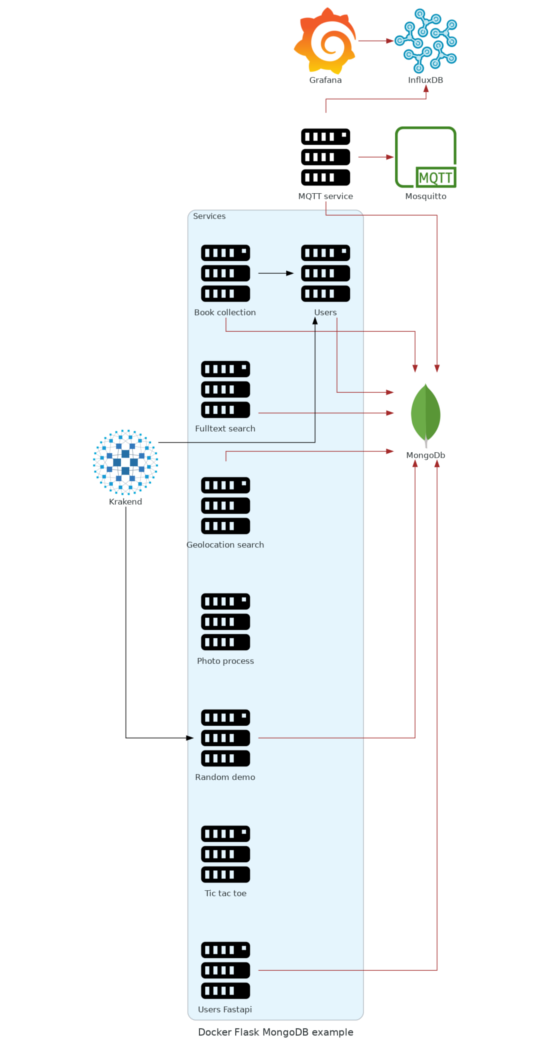
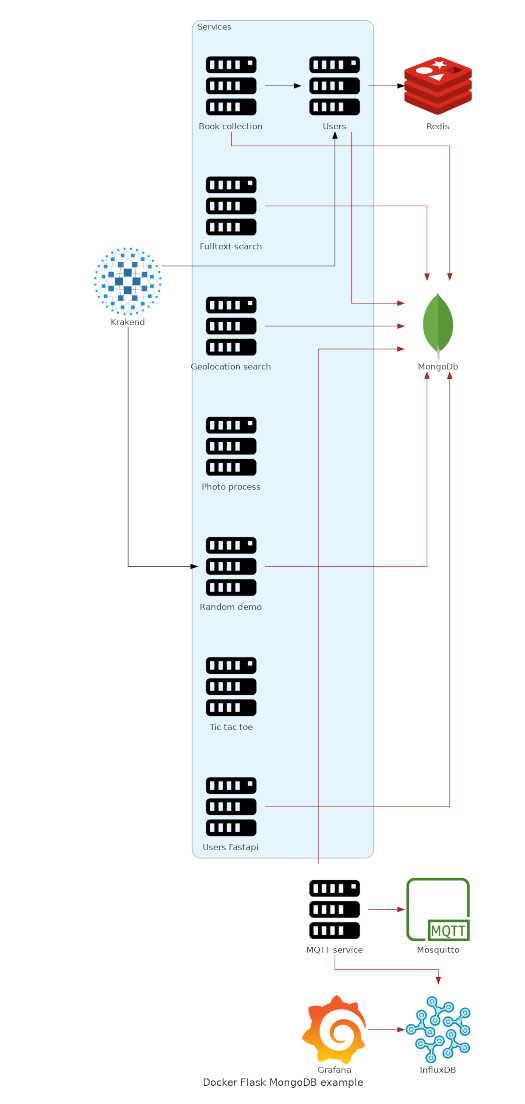
implemented demo caching system using redis cache and decorators

diff --git a/python/utils.py b/python/utils.py
@@ -1,7 +1,14 @@
 import logging, os
+import pickle
+
+import redis
 
 
 def get_logger():
+    """Configures the logging module, and returns it
+
+    Writes to a file log, also outputs it in the console
+    """
     logger = logging.getLogger("python_app")
     logger.setLevel(logging.DEBUG)
     # create file handler which logs even debug messages
@@ -23,5 +30,63 @@ def get_logger():
 
 
 def read_docker_secret(name: str) -> str:
+    """
+    Read a secret by name from as a docker configuration
+
+    :param name: name of the secret
+    :return: the secret as a string
+    """
     with open(os.environ.get(name), "r") as file:
         return file.read()
+
+
+def cache(redis: redis.Redis, key: str):
+    """
+    Caches the result of the function in redis and pickle, used a key to cache it
+
+    :param redis: a redis configured instance
+    :param key: the key to use as a parameter for the cache
+    :return: the result of the wrapped function
+    """
+
+    def decorator(fn):  # define a decorator for a function "fn"
+        def wrapped(
+            *args, **kwargs
+        ):  # define a wrapper that will finally call "fn" with all arguments
+            # if cache exists -> load it and return its content
+            cached = redis.get(kwargs[key])
+            if cached:
+                return pickle.loads(cached)
+            # execute the function with all arguments passed
+            res = fn(*args, **kwargs)
+            # save cache in redis
+            redis.set(kwargs[key], pickle.dumps(res))
+            return res
+
+        return wrapped
+
+    return decorator
+
+
+def cache_invalidate(redis: redis.Redis, key: str):
+    """
+    Deletes the redis cache by the key specified
+
+    :param redis: a redis configured instance
+    :param key: the key to use as a parameter for the cache deletion
+    :return: the result of the wrapped function
+    """
+
+    def decorator(fn):  # define a decorator for a function "fn"
+        def wrapped_f(
+            *args, **kwargs
+        ):  # define a wrapper that will finally call "fn" with all arguments
+            # execute the function with all arguments passed
+            res = fn(*args, **kwargs)
+            # delete cache
+            redis.delete(kwargs[key])
+            return res
+
+        return wrapped_f
+
+    return decorator

diff --git a/python/users.py b/python/users.py
@@ -1,14 +1,17 @@
 import json
 
+import redis
 from flask import Flask, request, Response
 from pymongo import MongoClient, errors
 from bson import json_util
 from flasgger import Swagger
+from utils import cache, cache_invalidate
 
 
 app = Flask(__name__)
 swagger = Swagger(app)
 users = MongoClient("mongodb", 27017).demo.users
+redis_cache = redis.Redis(host="redis", port=6379, db=0)
 
 
 @app.route("/users/<int:userid>", methods=["POST"])
@@ -57,6 +60,7 @@ def add_user(userid):
 
 
 @app.route("/users/<int:userid>", methods=["PUT"])
+@cache_invalidate(redis=redis_cache, key="userid")
 def update_user(userid):
     """Update user information
     ---
@@ -98,6 +102,7 @@ def update_user(userid):
 
 
 @app.route("/users/<int:userid>", methods=["GET"])
+@cache(redis=redis_cache, key="userid")
 def get_user(userid):
     """Details about a user
     ---
@@ -178,6 +183,7 @@ def get_users():
 
 
 @app.route("/users/<int:userid>", methods=["DELETE"])
+@cache_invalidate(redis=redis_cache, key="userid")
 def delete_user(userid):
     """Delete operation for a user
     ---

diff --git a/python/diagrams_generator.py b/python/diagrams_generator.py
@@ -5,6 +5,7 @@ from diagrams.aws.iot import IotMqtt
 from diagrams.onprem.database import MongoDB
 from diagrams.onprem.database import InfluxDB
 from diagrams.onprem.network import HAProxy
+from diagrams.onprem.inmemory import Redis
 
 
 with Diagram(
@@ -37,8 +38,10 @@ with Diagram(
     mosquitto = IotMqtt("Mosquitto")
     grafana = Grafana("Grafana")
     influxdb = InfluxDB("InfluxDB")
+    redis = Redis("Redis")
 
     webservers >> Edge(color="brown") >> mongo
+    users >> Edge(color="brows") >> redis
     book_collection >> Edge(color="black") >> users
     mqtt_service >> Edge(color="brown") >> mosquitto
     mqtt_service >> Edge(color="brown") >> mongo

diff --git a/README.md b/README.md
@@ -811,13 +811,9 @@ pip install -r python/requirements.txt
 I have created a diagram using this tool: https://diagrams.mingrammer.com 
 
 
-To generate a new one install diagrams package inside your conda env:
+To generate a new one install diagrams and graphviz packages inside your conda env:
 ````
-pip install diagrams
-````
-Then install graphviz inside conda:
-````
-conda install graphviz
+pip install diagrams graphviz
 ````
 Now you're ready to modify "diagrams_generator.py" inside python folder then run the generator
 ````
